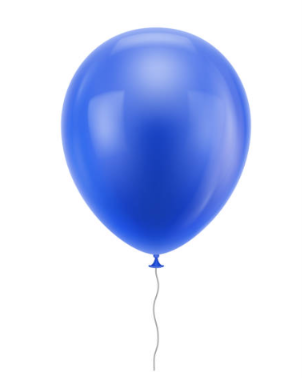
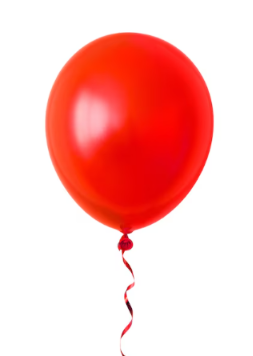
success page update

diff --git a/success.html b/success.html
@@ -1,46 +1,68 @@
 <!DOCTYPE html>
 <html>
-<head>
-<style>
-.container{
-    display:flex;
-    align-items:top;
-    justify-content:center;
-    gap:15px;
-    height:100vh;
-    margin-top: 80px;
-}
-
-.div-1 img,.div-2 img{
-    width:50px;
-    height:50px;
-    animation:bounce 0.6s infinite alternate;
-}
-
-.div-2 img{
-    animation-delay:0.2s;
-}
-
-@keyframes bounce{
-    from{
-        transform:translateY(0);
-    }
-    to{
-        transform:translateY(-20px);
-    }
-}
-</style>
-</head>
-<body>
-
-<div class="container">
-    <div class="div-1"><img src="/ballon.png"></div>
-    <h1>Login Successfully</h1>
-    <div class="div-2"><img src="/ballon.png"></div>
-</div>
-<video autoplay loop muted playsline width="350px" height="350px">
-    <source src="/logo3.mp4" type="video/mp4">
-</video>
-
-</body>
+    <head>
+        <style>
+            body{
+                margin: 0;
+                padding: 0;
+            }    
+            .container{
+                position:relative;
+                z-index:1;
+                display:flex;
+                align-items:center;
+                justify-content:center;
+                gap:15px;
+                z-index: 1;
+                margin-top: 50vh;
+                
+            }
+            .video-container{
+                position: absolute;
+                top: 0;
+                left: 0;
+                width: 100%;
+                height: 100%;
+                z-index: -1;
+            
+            }
+            .video-container video{
+                width: 100%;
+                height: 100%;
+                object-fit: cover;
+            }
+            
+            .div-1 img,.div-2 img{
+                width:100px;
+                height:100px;
+                animation:bounce 0.6s infinite alternate;
+            }
+            
+            .div-2 img{
+                animation-delay:0.2s;
+            }
+            
+            @keyframes bounce{
+                from{
+                    transform:translateY(0);
+                }
+                to{
+                    transform:translateY(-20px);
+                }
+            }
+        </style>
+    </head>
+    <body>
+        <div class="video-container">
+            <video autoplay loop muted playsinline>
+               <source src="logo3.mp4" type="video/mp4">
+            </video>
+        </div>
+        
+        <div class="container">
+            <div class="div-1"><img src="ballon.png" style="color: green;"></div>
+            <h1 style="font-size: 60px; color:green;">Login Successfully</h1>
+            <div class="div-2"><img src="ballon.png"></div>
+        </div>
+    </body>
 </html>